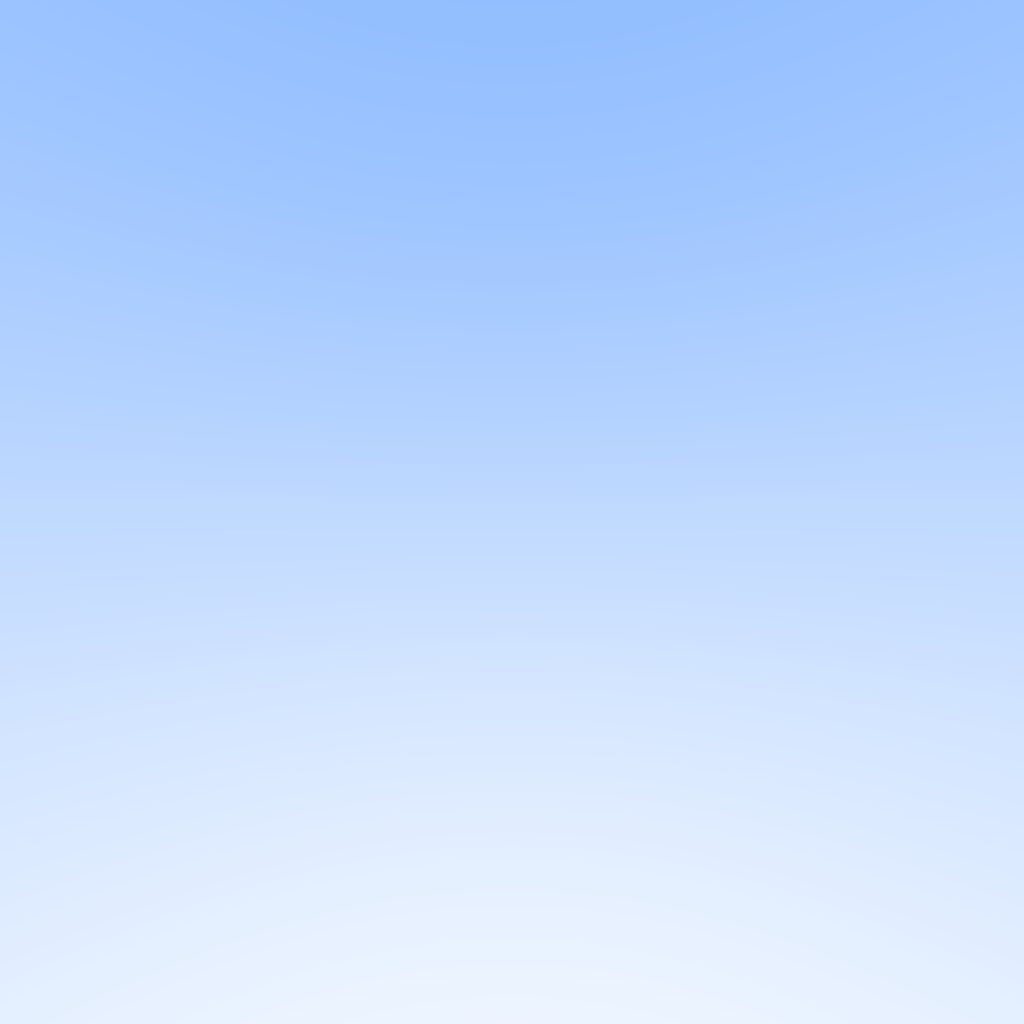
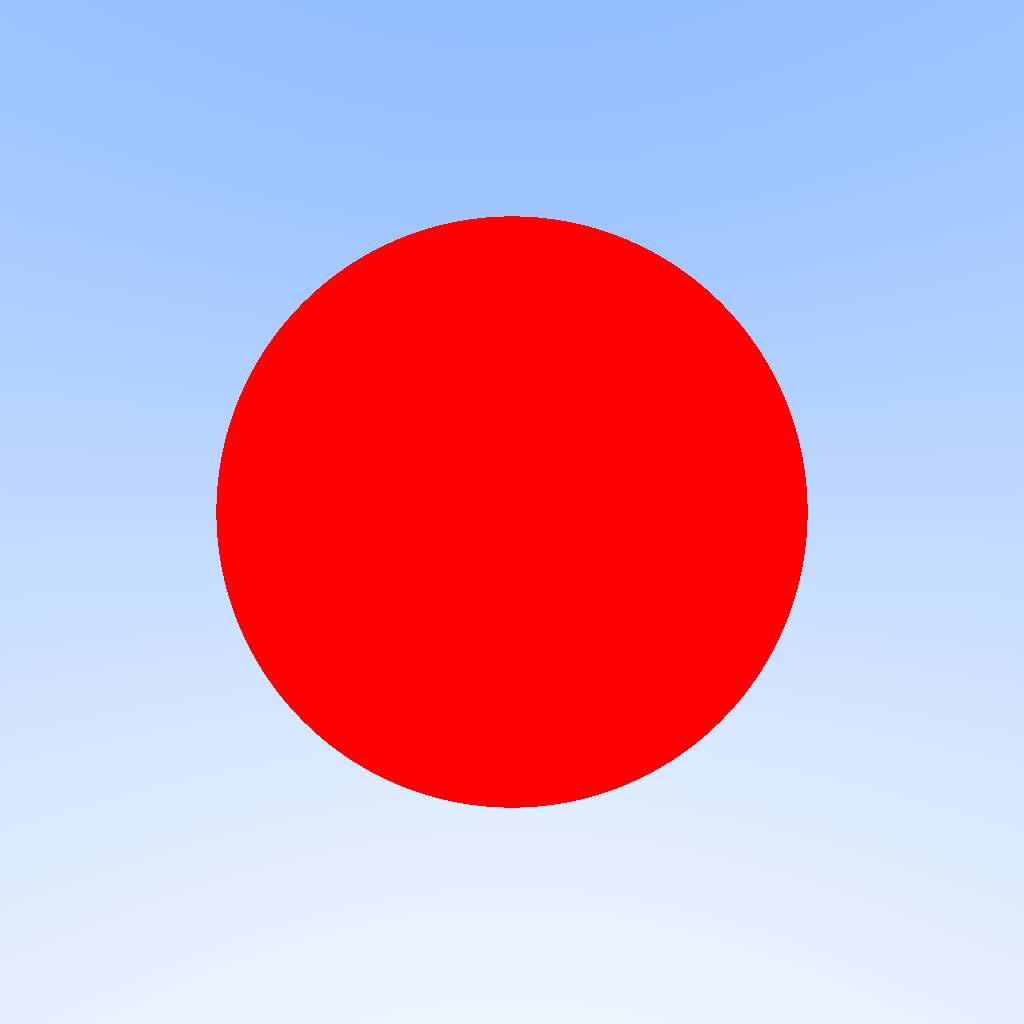
Added sphere

Changed region(s): [[0.1875, 0.1875, 0.8125, 0.8125]]

diff --git a/src/sphere.rs b/src/sphere.rs
@@ -1,0 +1,26 @@
+use glam::DVec3;
+
+use crate::ray::Ray;
+
+pub struct Sphere {
+    position: DVec3,
+    radius: f64,
+}
+
+impl Sphere {
+    pub fn new(position: DVec3, radius: f64) -> Self {
+        Sphere { position, radius }
+    }
+
+    pub fn hit(&self, ray: &Ray) -> bool {
+        let tmp = self.position - ray.origin;
+
+        let a = ray.direction.length_squared();
+        let b = -2.0 * ray.direction.dot(tmp);
+        let c = tmp.length_squared() - self.radius * self.radius;
+
+        let discriminant = b * b - 4.0 * a * c;
+
+        discriminant >= 0.0
+    }
+}

diff --git a/src/main.rs b/src/main.rs
@@ -1,11 +1,13 @@
 use glam::{dvec3, DVec3};
 use image::{Rgb, RgbImage};
+use sphere::Sphere;
 
 use crate::camera::Camera;
 use crate::ray::Ray;
 
 mod camera;
 mod ray;
+mod sphere;
 mod testing;
 
 const WIDTH: u32 = 1024;
@@ -16,6 +18,11 @@ fn to_rgb(data: DVec3) -> Rgb<u8> {
 }
 
 fn get_colour(ray: Ray) -> Rgb<u8> {
+    let sphere = Sphere::new(dvec3(0.0, 0.0, -1.0), 0.5);
+    if sphere.hit(&ray) {
+        return Rgb([255, 0, 0]);
+    }
+
     let a = 0.5 * (ray.direction.y + 1.0);
     let result = (1.0 - a) * DVec3::ONE + a * dvec3(0.5, 0.7, 1.0);
     to_rgb(result)
